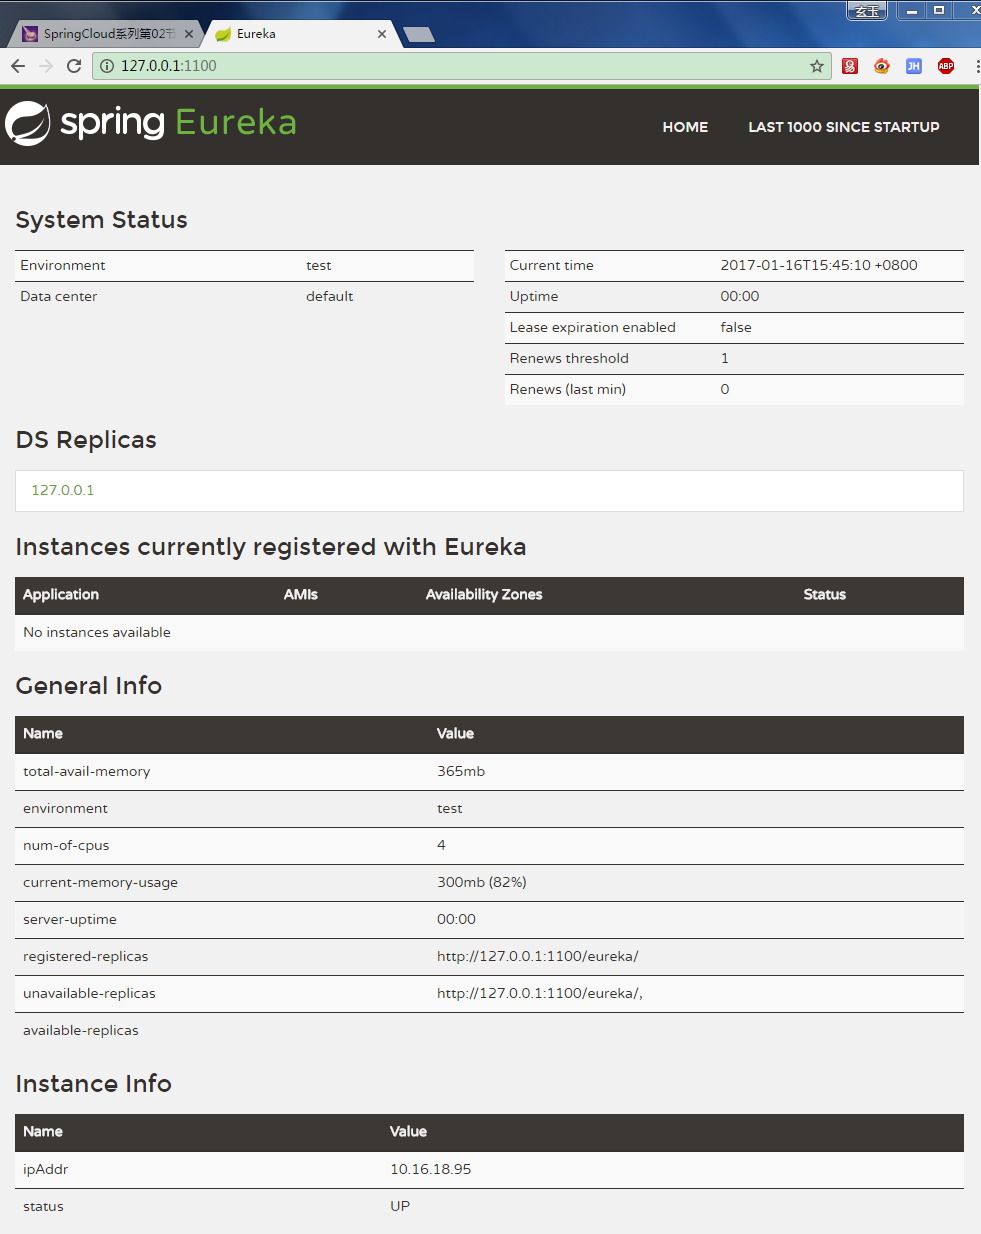
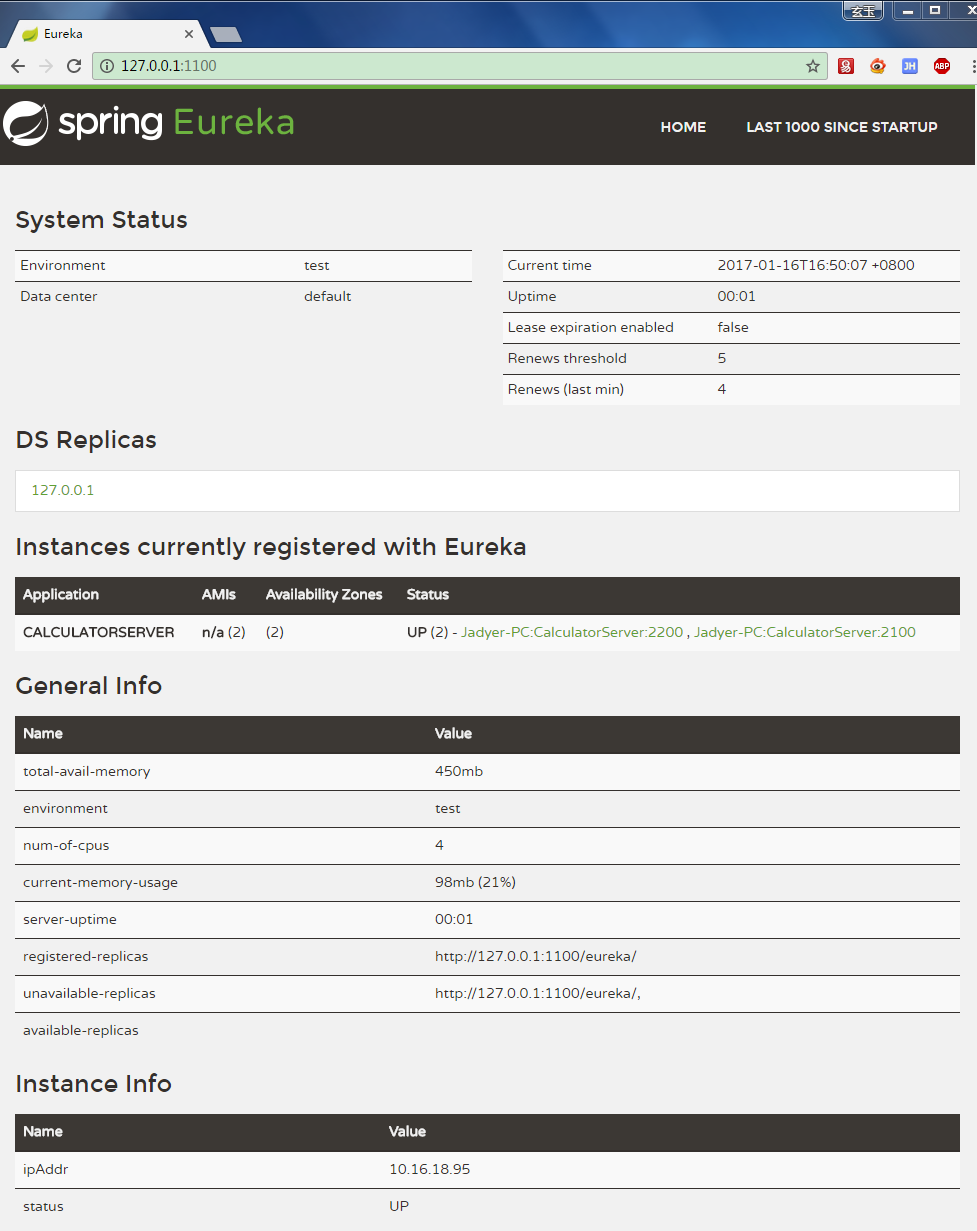
281

diff --git a/_posts/2017/2017-01-16-springcloud-eureka.md b/_posts/2017/2017-01-16-springcloud-eureka.md
@@ -39,9 +39,9 @@ Spring Cloud 已经把 Eureka 集成在其子项目 Spring Cloud Netflix 里面
 
 ## 示例代码
 
-本文演示的是一个基本的例子，只能用来尝尝鲜
+本文的例子只能用来尝尝鲜，更丰富的详见 Eureka 进阶篇：[https://jadyer.github.io/2017/01/16/springcloud-eureka-advance/](https://jadyer.github.io/2017/01/16/springcloud-eureka-advance/)
 
-更多丰富的介绍和演示，详见 Eureka 进阶篇：[https://jadyer.github.io/2017/01/16/springcloud-eureka-advance/](https://jadyer.github.io/2017/01/16/springcloud-eureka-advance/)
+这里通过一个注册中心，和两个服务提供者，搭建一个基本的示例
 
 这是一个公共的 `pom.xml`
 
@@ -107,7 +107,10 @@ Spring Cloud 已经把 Eureka 集成在其子项目 Spring Cloud Netflix 里面
 
 ### 注册中心
 
-总体思路：1、SpringBoot 启动类标注 `@EnableEurekaServer` 注解，2、配置自己本身不注册到注册中心
+总体思路如下
+
+1. SpringBoot启动类标注 `@EnableEurekaServer` 注解
+2. 设置自己本身不注册到注册中心
 
 ok，let`s drink code ...
 
@@ -138,7 +141,7 @@ ok，let`s drink code ...
 </project>
 ```
 
-这是 SpringBoot 启动类 `ServiceDiscoveryBootStrap.java`
+这是注册中心的 SpringBoot 启动类 `ServiceDiscoveryBootStrap.java`
 
 ```java
 package com.jadyer.demo;
@@ -156,7 +159,7 @@ public class ServiceDiscoveryBootStrap {
 }
 ```
 
-这是配置文件 `/src/main/resources/application.yml`
+这是注册中心的配置文件 `/src/main/resources/application.yml`
 
 ```yml
 server:
@@ -179,7 +182,7 @@ eureka:
       defaultZone: http://127.0.0.1:${server.port}/eureka/
 ```
 
-补充一个日志输出的配置 `/src/main/resources/logback.xml`
+补充一个注册中心的的日志输出配置 `/src/main/resources/logback.xml`
 
 ```xml
 <?xml version="1.0" encoding="UTF-8"?>
@@ -204,8 +207,140 @@ eureka:
 </configuration>
 ```
 
+### 服务提供方01
+
+总体思路如下
+
+1. SpringBoot启动类标注 `@EnableEurekaClient` 或者 `@EnableDiscoveryClient` 注解
+2. 配置注册中心地址
+
+ok，let`s drink code ...
+
+这是服务提供方的 `pom.xml`
+
+```xml
+<?xml version="1.0" encoding="UTF-8"?>
+<project xmlns="http://maven.apache.org/POM/4.0.0" xmlns:xsi="http://www.w3.org/2001/XMLSchema-instance"
+	xsi:schemaLocation="http://maven.apache.org/POM/4.0.0 http://maven.apache.org/maven-v4_0_0.xsd">
+	<modelVersion>4.0.0</modelVersion>
+	<parent>
+		<groupId>com.jadyer.demo</groupId>
+		<artifactId>demo-cloud-02</artifactId>
+		<version>1.1</version>
+	</parent>
+	<artifactId>service-server-01</artifactId>
+
+	<properties>
+		<project.build.sourceEncoding>UTF-8</project.build.sourceEncoding>
+	</properties>
+
+	<dependencies>
+		<dependency>
+			<groupId>org.springframework.cloud</groupId>
+			<artifactId>spring-cloud-starter-eureka</artifactId>
+		</dependency>
+	</dependencies>
+</project>
+```
+
+这是服务提供方的 SpringBoot 启动类 `ServiceServer01BootStarp.java`
+
+```java
+package com.jadyer.demo;
+import org.springframework.boot.autoconfigure.SpringBootApplication;
+import org.springframework.boot.builder.SpringApplicationBuilder;
+import org.springframework.cloud.netflix.eureka.EnableEurekaClient;
+
+/**
+ * 通过 @EnableEurekaClient 注解，为服务提供方赋予注册和发现服务的能力
+ * ------------------------------------------------------------------------------------------------------------------
+ * 也可以使用org.springframework.cloud.client.discovery.@EnableDiscoveryClient注解
+ * 详见以下两篇文章的介绍
+ * http://cloud.spring.io/spring-cloud-static/Camden.SR3/#_registering_with_eureka
+ * https://spring.io/blog/2015/01/20/microservice-registration-and-discovery-with-spring-cloud-and-netflix-s-eureka
+ * ------------------------------------------------------------------------------------------------------------------
+ * Created by 玄玉<https://jadyer.github.io/> on 2017/1/9 16:00.
+ */
+@EnableEurekaClient
+@SpringBootApplication
+public class ServiceServer01BootStarp {
+	public static void main(String[] args) {
+		new SpringApplicationBuilder(ServiceServer01BootStarp.class).run(args);
+	}
+}
+```
+
+这是服务提供方的配置文件 `/src/main/resources/application.yml`
+
+```yml
+server:
+  port: 2100
+
+# 指定发布的微服务名（以后调用时，只需该名称即可访问该服务）
+spring:
+  application:
+    name: CalculatorServer
+
+# 指定服务注册中心的地址
+eureka:
+  client:
+    serviceUrl:
+      defaultZone: http://127.0.0.1:1100/eureka/
+```
+
+这是服务提供方暴露的数学运算服务 `CalculatorController.java`
+
+```java
+package com.jadyer.demo;
+import org.slf4j.Logger;
+import org.slf4j.LoggerFactory;
+import org.springframework.cloud.client.ServiceInstance;
+import org.springframework.cloud.client.discovery.DiscoveryClient;
+import org.springframework.web.bind.annotation.RequestMapping;
+import org.springframework.web.bind.annotation.RestController;
+import javax.annotation.Resource;
+
+/**
+ * 服务提供方暴露的数学运算服务
+ * Created by 玄玉<https://jadyer.github.io/> on 2017/1/9 16:00.
+ */
+@RestController
+public class CalculatorController {
+    private final Logger logger = LoggerFactory.getLogger(getClass());
+
+    @Resource
+    private DiscoveryClient client;
+
+    @RequestMapping("/add")
+    public int add(int a, int b){
+        //加运算
+        int r = a + b;
+        //输出服务信息
+        ServiceInstance instance = client.getLocalServiceInstance();
+        logger.info("uri={}，service_id={}，result={}", instance.getUri(), instance.getServiceId(), r);
+        //返回结果
+        return r;
+    }
+}
+```
+
+### 服务提供方02
+
+除了启动端口为2200外，其代码与服务提供方01的完全相同
+
+### 效果图
+
 最后我们看一下注册中心的 Eureka 首页效果图
+
+可以看到：两个服务相同，启动端口不同的 CalculatorServer 已经注册进来了
 
 ![](/img/2017/2017-01-16-springcloud-eureka.png)
 
-### 服务端
+目前为止，我们完成了 Spring Cloud Netflix Eureka 搭建注册中心的基本示例，不过也只是尝尝鲜
+
+因为它存在着很多问题，比如
+
+* 服务提供方关闭之后，在注册中心看到的状态还是 UP
+* 注册中心的服务提供方显示的名字，是不是可以自定义
+
+等等吧，这些问题，请参见 Eureka 进阶篇：[https://jadyer.github.io/2017/01/16/springcloud-eureka-advance/](https://jadyer.github.io/2017/01/16/springcloud-eureka-advance/)
